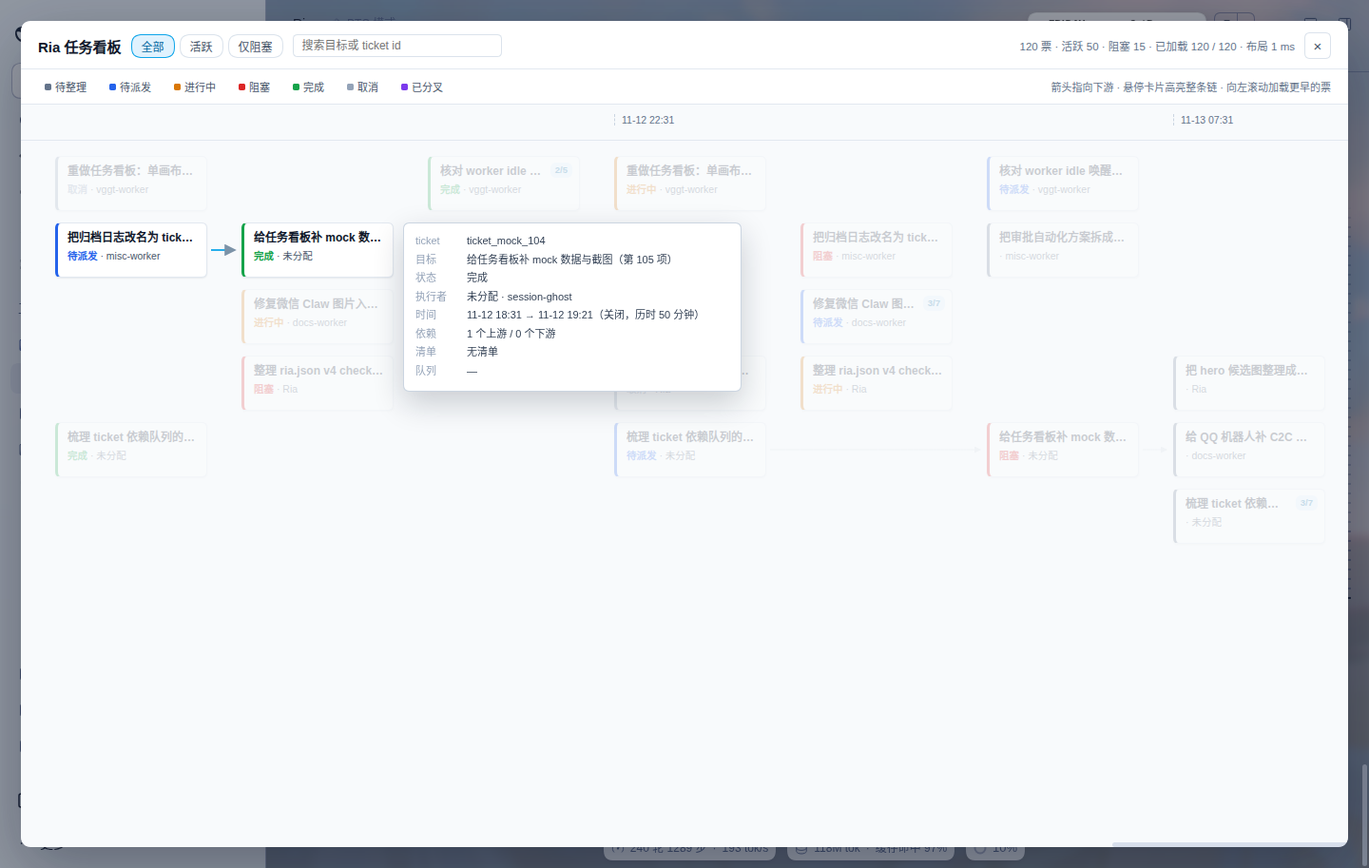
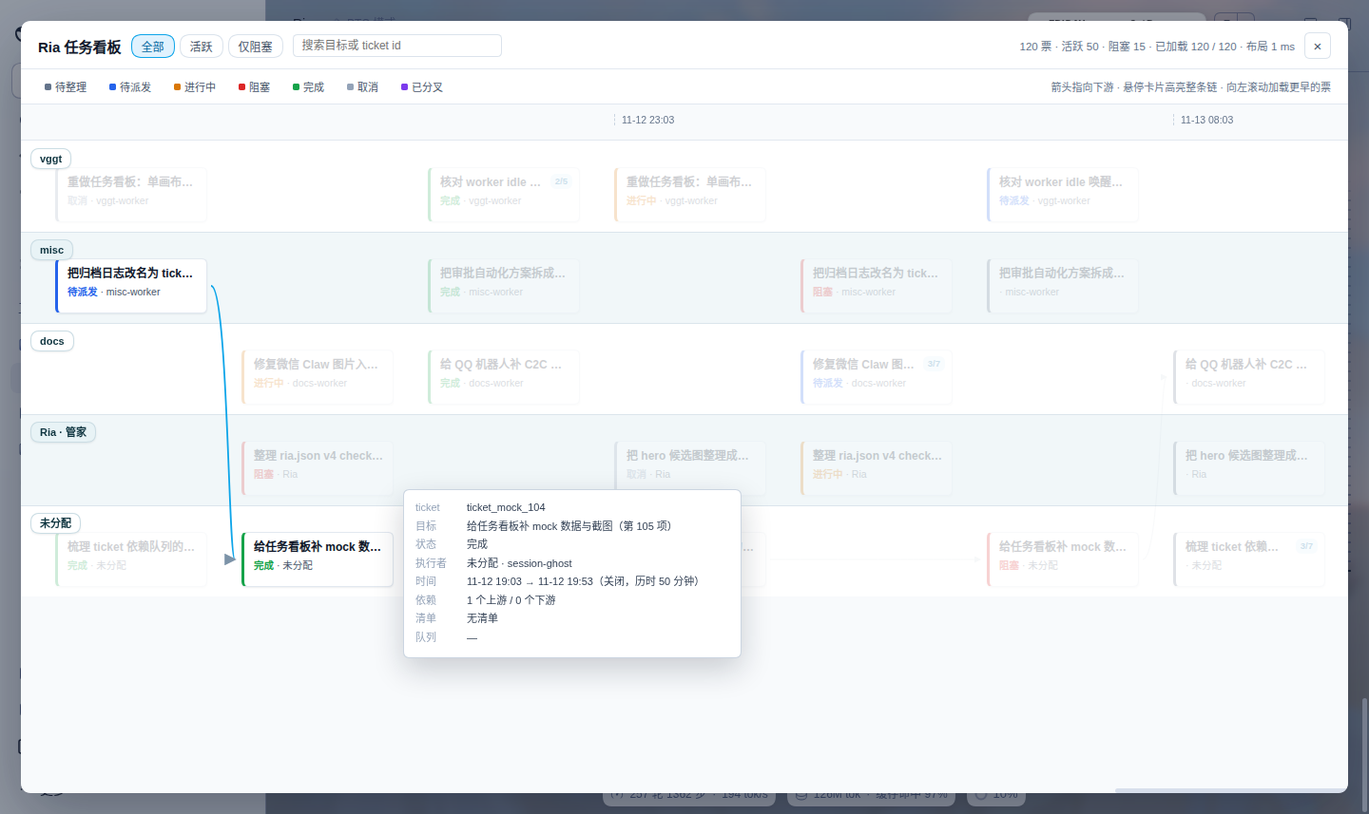
feat: lay out the board in project swimlanes

diff --git a/lib/client.js b/lib/client.js
@@ -1212,8 +1212,9 @@ window.__ModuleLoader__.load({
 
     // Read-only ticket board. The server projects tickets plus session/workspace
     // metadata; this view is a single scrollable canvas: cards are absolutely
-    // positioned by creation order, rows are packed per workspace/executor, and
-    // one SVG layer draws dependencies.
+    // positioned by creation order, and each workspace owns a horizontal band
+    // with its own rows. One SVG layer draws dependencies across bands.
+    /* board-layout:start */
     var BOARD_STATUS = {
       intake: { label: "待整理", color: "#64748b" },
       open: { label: "待派发", color: "#2563eb" },
@@ -1235,6 +1236,12 @@ window.__ModuleLoader__.load({
     var BOARD_STEP_X = BOARD_CARD_WIDTH + BOARD_COLUMN_GAP;
     var BOARD_STEP_Y = BOARD_CARD_HEIGHT + BOARD_ROW_GAP;
     var BOARD_RULER_HEIGHT = 38;
+    var BOARD_LANE_WIDTH = 118;
+    var BOARD_LANE_LABEL_WIDTH = 104;
+    // Each band reserves a header strip for its project label, so the sticky
+    // label never sits on top of a card when the canvas scrolls sideways.
+    var BOARD_BAND_PAD_TOP = 28;
+    var BOARD_BAND_PAD_BOTTOM = 10;
 
     function boardStatus(status) {
       return BOARD_STATUS[status] || { label: String(status || ""), color: "#64748b" };
@@ -1276,31 +1283,70 @@ window.__ModuleLoader__.load({
       return boardDateTime(start) + " → " + boardDateTime(end) + "（" + label + "，历时 " + boardDuration(end - start) + "）";
     }
 
+    function boardPathName(path) {
+      var text = String(path || "").replace(/[\\/]+$/, "");
+      if (!text) return "";
+      var parts = text.split(/[\\/]/);
+      return parts[parts.length - 1] || "";
+    }
+
+    function boardLaneLabel(meta) {
+      if (!meta || meta.id === "unassigned") return "未分配";
+      if (meta.label) return String(meta.label);
+      var cwd = meta.cwd;
+      if (!cwd && /^path:/.test(meta.id)) cwd = meta.id.slice(5);
+      if (cwd) return boardPathName(cwd) || String(cwd);
+      return String(meta.id || "").replace(/^(workspace|path|session):/, "") || "未分配";
+    }
+
     // Lay out the visible tickets without a third-party layout engine:
     // 1. creation order gives every ticket a column (three per column),
     // 2. dependency edges push the downstream ticket at least one column right,
-    // 3. rows are packed by workspace/executor lane, then by free slot.
+    // 3. each workspace/executor lane is its own horizontal band; rows are
+    //    packed inside the band only, so a card never leaves its project.
     function boardLayout(tickets, lanes) {
       var started = performance.now();
       var sorted = tickets.slice().sort(function (left, right) {
         return (left.createdAt || 0) - (right.createdAt || 0) || String(left.ticketId).localeCompare(String(right.ticketId));
       });
-      var laneOrder = [];
-      var laneRank = new Map();
+      var laneMeta = new Map();
+      var seedOrder = [];
       (Array.isArray(lanes) ? lanes : []).forEach(function (lane) {
-        if (lane && lane.id && !laneRank.has(lane.id)) {
-          laneRank.set(lane.id, laneOrder.length);
-          laneOrder.push(lane.id);
-        }
+        if (!lane || !lane.id || laneMeta.has(lane.id)) return;
+        laneMeta.set(lane.id, {
+          id: lane.id,
+          label: lane.label ? String(lane.label) : "",
+          cwd: lane.cwd ? String(lane.cwd) : "",
+          order: seedOrder.length
+        });
+        seedOrder.push(lane.id);
       });
+      var laneOrder = [];
+      var seenLanes = new Set();
       sorted.forEach(function (ticket) {
         var id = ticket.laneId || "unassigned";
-        if (!laneRank.has(id)) {
-          laneRank.set(id, laneOrder.length);
-          laneOrder.push(id);
+        if (seenLanes.has(id)) return;
+        seenLanes.add(id);
+        if (!laneMeta.has(id)) {
+          laneMeta.set(id, {
+            id: id,
+            label: ticket.laneLabel ? String(ticket.laneLabel) : "",
+            cwd: ticket.executorCwd ? String(ticket.executorCwd) : "",
+            order: seedOrder.length + laneOrder.length
+          });
         }
+        laneOrder.push(id);
       });
-      var laneCount = Math.max(1, laneOrder.length);
+      // Keep the API's project order, but always put the unassigned band last.
+      laneOrder.sort(function (left, right) {
+        if (left === "unassigned") return 1;
+        if (right === "unassigned") return -1;
+        return laneMeta.get(left).order - laneMeta.get(right).order;
+      });
+      var bandOf = new Map();
+      sorted.forEach(function (ticket) {
+        bandOf.set(ticket.ticketId, ticket.laneId || "unassigned");
+      });
       var columnOf = new Map();
       sorted.forEach(function (ticket, index) {
         columnOf.set(ticket.ticketId, Math.floor(index / 3));
@@ -1325,61 +1371,89 @@ window.__ModuleLoader__.load({
         columns.get(column).push(ticket);
       });
       var columnKeys = Array.from(columns.keys()).sort(function (left, right) { return left - right; });
-      var baseRow = new Map();
-      sorted.forEach(function (ticket, index) {
-        var preferred = laneRank.has(ticket.laneId) ? laneRank.get(ticket.laneId) : laneCount;
-        baseRow.set(ticket.ticketId, Math.max(0, Math.min(laneCount - 1, preferred)));
-      });
       var positions = new Map();
-      var maxRow = 0;
-      var maxColumn = 0;
-      // Median heuristic: after the first lane-based packing, move cards toward
-      // the median row of their upstream tickets. Two extra passes are enough
-      // to remove most crossings without turning the layout into a solver.
+      var bandRows = new Map();
+      laneOrder.forEach(function (id) { bandRows.set(id, 0); });
+      // A band owns its rows: the occupied set is per band and column, and the
+      // preferred row from the median heuristic can never cross into another.
       function packRows(preferredRows) {
         var next = new Map();
-        var occupied = new Set();
-        maxRow = 0;
+        var rows = new Map();
+        laneOrder.forEach(function (id) { rows.set(id, 0); });
         columnKeys.forEach(function (column) {
           var items = columns.get(column).slice().sort(function (left, right) {
-            var leftRank = laneRank.has(left.laneId) ? laneRank.get(left.laneId) : laneCount;
-            var rightRank = laneRank.has(right.laneId) ? laneRank.get(right.laneId) : laneCount;
-            return leftRank - rightRank || (left.createdAt || 0) - (right.createdAt || 0);
+            return (left.createdAt || 0) - (right.createdAt || 0);
           });
-          items.forEach(function (ticket) {
-            var preferred = preferredRows.get(ticket.ticketId);
-            var row = Math.max(0, Math.min(laneCount - 1, Number.isFinite(preferred) ? preferred : 0));
-            while (occupied.has(column + ":" + row)) row += 1;
-            occupied.add(column + ":" + row);
-            next.set(ticket.ticketId, {
-              x: BOARD_PAD_X + column * BOARD_STEP_X,
-              y: BOARD_PAD_TOP + row * BOARD_STEP_Y,
-              column: column,
-              row: row
+          laneOrder.forEach(function (laneId) {
+            var occupied = new Set();
+            items.forEach(function (ticket) {
+              if (bandOf.get(ticket.ticketId) !== laneId) return;
+              var preferred = preferredRows.get(ticket.ticketId);
+              var row = Number.isFinite(preferred) ? Math.max(0, Math.floor(preferred)) : 0;
+              while (occupied.has(row)) row += 1;
+              occupied.add(row);
+              next.set(ticket.ticketId, {
+                x: BOARD_PAD_X + BOARD_LANE_WIDTH + column * BOARD_STEP_X,
+                y: 0,
+                column: column,
+                row: row,
+                band: laneId
+              });
+              if (row + 1 > rows.get(laneId)) rows.set(laneId, row + 1);
             });
-            if (row > maxRow) maxRow = row;
-            if (column > maxColumn) maxColumn = column;
           });
         });
+        bandRows = rows;
         return next;
       }
-      var preferredRows = new Map(baseRow);
+      var preferredRows = new Map();
+      // Three passes: pack, then move cards toward the median row of upstream
+      // tickets in the same band. Cross-band dependencies do not move a card.
       for (var round = 0; round < 3; round += 1) {
         positions = packRows(preferredRows);
         if (round === 2) break;
-        var nextPreferred = new Map(baseRow);
+        var nextPreferred = new Map();
         sorted.forEach(function (ticket) {
+          var band = bandOf.get(ticket.ticketId);
           var upstreamRows = (ticket.dependsOn || [])
             .map(function (dependency) { return positions.get(dependency); })
-            .filter(Boolean)
+            .filter(function (position) { return position && position.band === band; })
             .map(function (position) { return position.row; })
             .sort(function (left, right) { return left - right; });
-          if (!upstreamRows.length) return;
+          if (!upstreamRows.length) {
+            nextPreferred.set(ticket.ticketId, 0);
+            return;
+          }
           var middle = upstreamRows[Math.floor(upstreamRows.length / 2)];
-          nextPreferred.set(ticket.ticketId, Math.max(0, Math.min(laneCount - 1, middle)));
+          nextPreferred.set(ticket.ticketId, Math.max(0, Math.min(Math.max(0, (bandRows.get(band) || 1) - 1), middle)));
         });
         preferredRows = nextPreferred;
       }
+      var bands = [];
+      var bandTop = 0;
+      laneOrder.forEach(function (id, index) {
+        var rows = Math.max(1, bandRows.get(id) || 0);
+        var height = BOARD_BAND_PAD_TOP + rows * BOARD_STEP_Y - BOARD_ROW_GAP + BOARD_BAND_PAD_BOTTOM;
+        bands.push({
+          id: id,
+          label: boardLaneLabel(laneMeta.get(id)),
+          y: bandTop,
+          height: height,
+          rows: rows,
+          index: index
+        });
+        bandTop += height;
+      });
+      var bandById = new Map(bands.map(function (band) { return [band.id, band]; }));
+      positions.forEach(function (position) {
+        var band = bandById.get(position.band);
+        position.bandIndex = band.index;
+        position.y = band.y + BOARD_BAND_PAD_TOP + position.row * BOARD_STEP_Y;
+      });
+      var maxColumn = 0;
+      positions.forEach(function (position) {
+        if (position.column > maxColumn) maxColumn = position.column;
+      });
       var edges = [];
       sorted.forEach(function (ticket) {
         var target = positions.get(ticket.ticketId);
@@ -1408,23 +1482,26 @@ window.__ModuleLoader__.load({
         ticks.push({
           key: "tick-" + column,
           column: column,
-          x: BOARD_PAD_X + column * BOARD_STEP_X,
+          x: BOARD_PAD_X + BOARD_LANE_WIDTH + column * BOARD_STEP_X,
           label: boardDateTime(first.createdAt)
         });
       });
-      var width = Math.max(720, BOARD_PAD_X * 2 + (maxColumn + 1) * BOARD_STEP_X - BOARD_COLUMN_GAP);
-      var height = BOARD_PAD_TOP + (maxRow + 1) * BOARD_STEP_Y + BOARD_PAD_BOTTOM;
+      var width = Math.max(720, BOARD_PAD_X * 2 + BOARD_LANE_WIDTH + (maxColumn + 1) * BOARD_STEP_X - BOARD_COLUMN_GAP);
+      var maxRows = 0;
+      bands.forEach(function (band) { if (band.rows > maxRows) maxRows = band.rows; });
       return {
         positions: positions,
         edges: edges,
         ticks: ticks,
+        bands: bands,
         columns: columnKeys.length,
-        rows: maxRow + 1,
+        rows: maxRows,
         width: width,
-        height: height,
+        height: bandTop,
         ms: performance.now() - started
       };
     }
+    /* board-layout:end */
 
     function BoardCard(props) {
       var ticket = props.ticket;
@@ -1934,6 +2011,26 @@ window.__ModuleLoader__.load({
                 "div",
                 { style: { position: "relative", width: view.layout.width + "px", height: view.layout.height + "px" } },
                 React.createElement(
+                  "div",
+                  { "aria-hidden": "true", style: { position: "absolute", inset: 0, zIndex: 0, pointerEvents: "none" } },
+                  view.layout.bands.map(function (band) {
+                    return React.createElement("div", {
+                      key: "band-" + band.id,
+                      "data-ria-band": band.id,
+                      style: {
+                        position: "absolute",
+                        left: 0,
+                        top: band.y + "px",
+                        width: view.layout.width + "px",
+                        height: band.height + "px",
+                        boxSizing: "border-box",
+                        background: band.index % 2 === 0 ? "#ffffff" : "#f1f7f9",
+                        borderTop: band.index === 0 ? "none" : "1px solid #dbe5ec"
+                      }
+                    });
+                  })
+                ),
+                React.createElement(
                   "svg",
                   {
                     "aria-hidden": "true",
@@ -1971,7 +2068,50 @@ window.__ModuleLoader__.load({
                     onEnter: showTip,
                     onLeave: hideTip
                   });
-                })
+                }),
+                React.createElement(
+                  "div",
+                  { style: { position: "absolute", inset: 0, zIndex: 4, pointerEvents: "none", width: view.layout.width + "px", height: view.layout.height + "px" } },
+                  view.layout.bands.map(function (band) {
+                    return React.createElement(
+                      "div",
+                      {
+                        key: "band-label-" + band.id,
+                        style: { position: "absolute", left: 0, top: band.y + "px", width: view.layout.width + "px", height: band.height + "px" }
+                      },
+                      React.createElement(
+                        "div",
+                        {
+                          "data-ria-band-label": band.id,
+                          title: band.label,
+                          style: {
+                            position: "sticky",
+                            left: "10px",
+                            display: "inline-flex",
+                            alignItems: "center",
+                            marginTop: "8px",
+                            marginLeft: "10px",
+                            maxWidth: BOARD_LANE_LABEL_WIDTH + "px",
+                            padding: "3px 9px",
+                            borderRadius: "999px",
+                            border: "1px solid #cbdde4",
+                            background: band.index % 2 === 0 ? "#ffffff" : "#e8f3f6",
+                            color: "#0f3540",
+                            fontSize: "11px",
+                            fontWeight: "700",
+                            lineHeight: "1.3",
+                            whiteSpace: "nowrap",
+                            overflow: "hidden",
+                            textOverflow: "ellipsis",
+                            boxSizing: "border-box",
+                            boxShadow: "0 1px 2px rgba(15, 23, 42, 0.08)"
+                          }
+                        },
+                        band.label
+                      )
+                    );
+                  })
+                )
               ),
               hasMore ? React.createElement(
                 "div",

diff --git a/docs/testing.md b/docs/testing.md
@@ -6,7 +6,7 @@
 npm test
 ~~~
 
-smoke 使用 mock ctx 覆盖 ensure、Workspace 挂载、12 个工具、request、ticket 派发都不加前缀、dispatch guard section 安装到 worker 和 Ria、GET/POST /settings 与 GET /state 的 settings、status、read、memory、持久化、grant 的 set/list/reset 与 ticket 关闭恢复，以及新建 Ria 不写任何 session 事件和第二次 ensure 不重复；近期 worker 覆盖空列表、ticket 派发后候选的 title/cwd/lastUsedAt/lastTicketGoal/lastTicketStatus、失败请求不更新、scope=sessions 字段、ria.json 持久化和 lossless；dispatch-guard 测试覆盖 installAll、agent/created 与 disposed、重复安装、开关关闭时 text 为空、注册失败只 warn 和 shutdown；wechat 测试覆盖 assistant 文本提取、入口事件过滤、微信入站去重/回显过滤、失败标记、reconnect skip、状态视图，以及图片开关默认开启与显式关闭；wechat-image 测试覆盖图片上传/发送字段与去重、成功发送、暂停、本机相对路径图片提取、缺失/非图片回退、围栏代码跳过和 outbound 关闭；wechat-image-inbound 测试覆盖 webwxgetmsgimg 失败回落 webwxgetmedia、Cookie 与 query、Content-Length/流式超限、无 Cookie 错误传播、落盘命名与重名、纯图片占位、下载失败/空/超限/未知类型降级、30 天与 500 个清理、宿主附件校验失败与投递失败回退纯文本、InboundBridge 投递 text+image；channels 测试覆盖账号 id 归一、二维码 data URL、通道 request id 前缀与互斥、QQ AES-256-GCM 绑定密钥解密与篡改拒绝、客户端通道目录顺序、最近通道存储键与回退、弹窗点击事件隔离，以及微信 Claw 和 QQ 的完整扫码流程（本地假服务、二维码轮询、凭据落盘、暂停恢复）；wechat-claw-image 测试覆盖图片开关归一、AES 解密入站、落盘权限与路径、非图片 item 拒绝、下载失败/超限/文件头错误、inbound 关闭、getuploadurl 字段与 CDN 密文、sendmessage image_item、上传失败回退可见文本、围栏代码跳过、outbound 关闭和暂停不发；wechat-claw-typing 测试覆盖 typing ticket 缓存与 ret!=0 重取、start→refresh→cancel 顺序、取消先于出站发送、暂停取消、typing 异常静默仍可收发和开关关闭零请求；qq-bot-typing 测试覆盖 C2C 触发与字段（msg_type/input_notify/msg_seq/msg_id）、群聊与频道不触发、续期次数与回复后停止、异常静默、暂停清理、只有出站不触发和开关关闭零请求；wechat-file 测试覆盖阈值/代码块/表格/标题/链接判定、配置/env 覆盖、文件名、短消息不变、长消息发 .md、失败回退文本，以及上传 multipart 和 appmsg 的字段/签名/去重；approvals 测试覆盖只记录活跃 executor、始终 next()、abort/超时/shutdown 清理和 lossless 输出；grants 测试覆盖过期、startup、ticket 缺失/关闭、漂移跳过、恢复失败和审计；startup 测试覆盖达到恢复上限后的通知与 blocked 状态、更新/成功派发清零、以及启动异常通知；worker-idle 测试覆盖正常触发、排除 Ria、非 working ticket/running 状态不触发、按 ticket 节流、开关关闭，以及提示文本要求 read/不假设完成/等用户输入时标 blocked；wechat-pause 测试覆盖手动开关与持久化、非微信消息自动暂停、微信入站自动恢复、host_/schedule 合成消息不触发、manual 优先级、暂停时不出站且丢日志、排队丢弃而在途完成、重启保持，以及恢复后补发 outbox；smoke 还验证 pause/unpause 往返后 pausedAt、resumedAt、pausedBy 和重复读取 status 的字段一致；以及 dispatch-notes 按 session/turn 过滤、错误 session 返回空列表、note 持久化、无 note 的请求不记录、snapshot 读取失败仍派发并记录 note；wechat 和 smoke 还覆盖派发 note 的微信镜像：ticket 格式、未登录/暂停/发送异常都不影响派发与 concludeTurn，失败条目留在 outbox 并可按退避补投；spawn 测试覆盖新建顶层 worker 的参数、title、失败码与 ria_status 可见性；model 测试覆盖 ria_spawn 带 model、创建前拒绝未知模型、创建后 selectModel 失败的回执、ria_model 改模型与 previous、未知/歧义模型、归档/subagent/不存在会话、改 Ria 自己，以及 sessions/recent 的模型字段；title 测试覆盖成功改名与 previous、session_missing、subagent 的 not_top_level、归档、宿主 title_invalid 原 message 透传，以及改 Ria 自己；attachments 测试覆盖图片 content 投递、attachment_missing/attachment_invalid/model_no_image、多目标部分成功，以及失败不投递、不写 recentWorkers、不动 ticket；checklist 测试覆盖 v3 文件加载与 .v3.bak 备份、创建/追加/显式清勾/replaceAll 保留勾选/drop、check 成功与越界/非布尔/终态/混用拒绝、ria_status 与看板 progress、归档摘要最多 5 条未勾项；attention 测试覆盖结构化问题的设置/读取/清空、旧 blockedReason 票和 ria_status 输出；board 测试覆盖 /board 的 counts/lanes/tickets 投影、executor=self 归 Ria、缺失 worker 与归档标记、workspaceRegistry 读取失败仍返回，以及注册路由的 JSON 响应；outbox 测试覆盖幂等入队、重载、退避与 6 次上限、delivered 清理、坏文件恢复、无活跃 turn 排队、turn 开始后补投、失败原因可见和 startup 补投；queue 测试覆盖 queued/steering/context 三种 placement、itemId/rpcId 撤回、item 不存在、rpcId 解析失败、session_missing/not_top_level/session_archived、冷会话 queue=null、updateQueue 错误映射；ticket-queue 测试覆盖依赖票停在 open/dependency 不可派、ready 只唤醒一次、queueToken 缺失/过期、worker_busy 拒绝 queue 但 steer 放行、依赖输入校验（自指/重复/缺失/环/上限）整次不写入、failed/cancelled 告警而 blocked 不告警、级联取消把 working 下游记为 deferred、merge 转移依赖边、ria_status 的 queue 输出与 ria_resolve 带 dependsOn；ticket-queue-restart 测试覆盖 v2→v3 迁移与备份、startup 重算依赖、恢复单位排除排队票、排队摘要合并、未派发 ready 票补发 boot wake；archive 测试覆盖新名写入、旧名读取、旧名启动迁移幂等、同 ticketId+closedAt 去重、reopen 与月日志保留。
+smoke 使用 mock ctx 覆盖 ensure、Workspace 挂载、12 个工具、request、ticket 派发都不加前缀、dispatch guard section 安装到 worker 和 Ria、GET/POST /settings 与 GET /state 的 settings、status、read、memory、持久化、grant 的 set/list/reset 与 ticket 关闭恢复，以及新建 Ria 不写任何 session 事件和第二次 ensure 不重复；近期 worker 覆盖空列表、ticket 派发后候选的 title/cwd/lastUsedAt/lastTicketGoal/lastTicketStatus、失败请求不更新、scope=sessions 字段、ria.json 持久化和 lossless；dispatch-guard 测试覆盖 installAll、agent/created 与 disposed、重复安装、开关关闭时 text 为空、注册失败只 warn 和 shutdown；wechat 测试覆盖 assistant 文本提取、入口事件过滤、微信入站去重/回显过滤、失败标记、reconnect skip、状态视图，以及图片开关默认开启与显式关闭；wechat-image 测试覆盖图片上传/发送字段与去重、成功发送、暂停、本机相对路径图片提取、缺失/非图片回退、围栏代码跳过和 outbound 关闭；wechat-image-inbound 测试覆盖 webwxgetmsgimg 失败回落 webwxgetmedia、Cookie 与 query、Content-Length/流式超限、无 Cookie 错误传播、落盘命名与重名、纯图片占位、下载失败/空/超限/未知类型降级、30 天与 500 个清理、宿主附件校验失败与投递失败回退纯文本、InboundBridge 投递 text+image；channels 测试覆盖账号 id 归一、二维码 data URL、通道 request id 前缀与互斥、QQ AES-256-GCM 绑定密钥解密与篡改拒绝、客户端通道目录顺序、最近通道存储键与回退、弹窗点击事件隔离，以及微信 Claw 和 QQ 的完整扫码流程（本地假服务、二维码轮询、凭据落盘、暂停恢复）；wechat-claw-image 测试覆盖图片开关归一、AES 解密入站、落盘权限与路径、非图片 item 拒绝、下载失败/超限/文件头错误、inbound 关闭、getuploadurl 字段与 CDN 密文、sendmessage image_item、上传失败回退可见文本、围栏代码跳过、outbound 关闭和暂停不发；wechat-claw-typing 测试覆盖 typing ticket 缓存与 ret!=0 重取、start→refresh→cancel 顺序、取消先于出站发送、暂停取消、typing 异常静默仍可收发和开关关闭零请求；qq-bot-typing 测试覆盖 C2C 触发与字段（msg_type/input_notify/msg_seq/msg_id）、群聊与频道不触发、续期次数与回复后停止、异常静默、暂停清理、只有出站不触发和开关关闭零请求；wechat-file 测试覆盖阈值/代码块/表格/标题/链接判定、配置/env 覆盖、文件名、短消息不变、长消息发 .md、失败回退文本，以及上传 multipart 和 appmsg 的字段/签名/去重；approvals 测试覆盖只记录活跃 executor、始终 next()、abort/超时/shutdown 清理和 lossless 输出；grants 测试覆盖过期、startup、ticket 缺失/关闭、漂移跳过、恢复失败和审计；startup 测试覆盖达到恢复上限后的通知与 blocked 状态、更新/成功派发清零、以及启动异常通知；worker-idle 测试覆盖正常触发、排除 Ria、非 working ticket/running 状态不触发、按 ticket 节流、开关关闭，以及提示文本要求 read/不假设完成/等用户输入时标 blocked；wechat-pause 测试覆盖手动开关与持久化、非微信消息自动暂停、微信入站自动恢复、host_/schedule 合成消息不触发、manual 优先级、暂停时不出站且丢日志、排队丢弃而在途完成、重启保持，以及恢复后补发 outbox；smoke 还验证 pause/unpause 往返后 pausedAt、resumedAt、pausedBy 和重复读取 status 的字段一致；以及 dispatch-notes 按 session/turn 过滤、错误 session 返回空列表、note 持久化、无 note 的请求不记录、snapshot 读取失败仍派发并记录 note；wechat 和 smoke 还覆盖派发 note 的微信镜像：ticket 格式、未登录/暂停/发送异常都不影响派发与 concludeTurn，失败条目留在 outbox 并可按退避补投；spawn 测试覆盖新建顶层 worker 的参数、title、失败码与 ria_status 可见性；model 测试覆盖 ria_spawn 带 model、创建前拒绝未知模型、创建后 selectModel 失败的回执、ria_model 改模型与 previous、未知/歧义模型、归档/subagent/不存在会话、改 Ria 自己，以及 sessions/recent 的模型字段；title 测试覆盖成功改名与 previous、session_missing、subagent 的 not_top_level、归档、宿主 title_invalid 原 message 透传，以及改 Ria 自己；attachments 测试覆盖图片 content 投递、attachment_missing/attachment_invalid/model_no_image、多目标部分成功，以及失败不投递、不写 recentWorkers、不动 ticket；checklist 测试覆盖 v3 文件加载与 .v3.bak 备份、创建/追加/显式清勾/replaceAll 保留勾选/drop、check 成功与越界/非布尔/终态/混用拒绝、ria_status 与看板 progress、归档摘要最多 5 条未勾项；attention 测试覆盖结构化问题的设置/读取/清空、旧 blockedReason 票和 ria_status 输出；board 测试覆盖 /board 的 counts/lanes/tickets 投影、executor=self 归 Ria、缺失 worker 与归档标记、workspaceRegistry 读取失败仍返回、注册路由的 JSON 响应，以及泳道布局（同 lane 同带、带内行不重叠、未分配最后、带高随行数、跨带依赖只移列不跨带、cwd 末段回退、标签 sticky 源码）；outbox 测试覆盖幂等入队、重载、退避与 6 次上限、delivered 清理、坏文件恢复、无活跃 turn 排队、turn 开始后补投、失败原因可见和 startup 补投；queue 测试覆盖 queued/steering/context 三种 placement、itemId/rpcId 撤回、item 不存在、rpcId 解析失败、session_missing/not_top_level/session_archived、冷会话 queue=null、updateQueue 错误映射；ticket-queue 测试覆盖依赖票停在 open/dependency 不可派、ready 只唤醒一次、queueToken 缺失/过期、worker_busy 拒绝 queue 但 steer 放行、依赖输入校验（自指/重复/缺失/环/上限）整次不写入、failed/cancelled 告警而 blocked 不告警、级联取消把 working 下游记为 deferred、merge 转移依赖边、ria_status 的 queue 输出与 ria_resolve 带 dependsOn；ticket-queue-restart 测试覆盖 v2→v3 迁移与备份、startup 重算依赖、恢复单位排除排队票、排队摘要合并、未派发 ready 票补发 boot wake；archive 测试覆盖新名写入、旧名读取、旧名启动迁移幂等、同 ticketId+closedAt 去重、reopen 与月日志保留。
 
 ## 本地开发与隔离验证
 

diff --git a/DESIGN.md b/DESIGN.md
@@ -562,7 +562,7 @@ ria.json 和 memory.md 都不存 transcript。
 - sidebar.panellist 注册 Ria，order 100，label "Ria"。
 - 点击后瞬时 launcher -> ensure -> openSession。
 - DSH 的正常会话界面要求 Session 属于一个 Workspace。ensure 在 stateDir 创建/复用标题为 Ria 的专用 Workspace，并用 workspaceId 创建 Session；旧 Ria 通过 attachSession 补挂。工作区列表会多这一项，这是输入框可用的必要条件。
-- 不做常驻看板；任务看板是侧栏入口打开的全屏只读 overlay，单画布按创建顺序每 3 票一列、依赖右移、按 workspace 分道，默认最新 60 票，向左滚动分页加载更早的票。
+- 不做常驻看板；任务看板是侧栏入口打开的全屏只读 overlay，单画布按创建顺序每 3 票一列、依赖右移；纵轴按 workspace 分成水平项目带，带高随行数自适应，带内独立换行与行对齐，卡片不跨带，项目标签在带顶左侧 sticky，跨带只画箭头。默认最新 60 票，向左滚动分页加载更早的票。
 - 新建 Ria 第一次打开（会话还没有任何 turn）时，输入框上方显示一张欢迎卡片：提示选模型、设置权限（建议 danger-full-access + 审批策略）、直接说目标。
 - 欢迎卡片是 client 侧渲染：注册在 `conversation.input.dock`（id=ria-welcome，order 5），只在当前会话等于 Ria 且 `blank` 时显示，发出第一条消息后自动消失；不写 session 日志、不占 turn、不调用模型、不进入模型上下文。
 - 早期实现是 Host 侧由 Session.append 写一个合成的完整 turn（turn 1/step 1）。该 turn 的 assistant/message 会成为 surface 的首个节点，排在真实 turn 的 system/message 之前，DSH session-format v4 校验要求 system/message 是 protected first surface head，因此重启 resume 报 corrupt（`system/message requires a protected first surface head`），已移除。
@@ -637,7 +637,7 @@ Phase 27：ticket 排队与依赖 P0。schema v3（dependsOn/readyAt/readyNotifi
 
 Phase 29：ticket checklist。schema v3→v4，旧文件原样读入、无 checklist 视为空，首次写前备份 `ria.json.v3.bak`；`ria_ticket` 支持 checklist 追加/保留勾选、`replaceAll` 整表重建、`drop` 删旧索引与 `check:{index,done}` 单项切换（错误码 checklist_invalid / checklist_index，终态拒绝 check）。`ticketSummary`、`ria_status` 与看板卡片带 progress（已完成/总数），归档摘要记录 total/done 与最多 5 条未勾项；manager prompt 要求多步任务先建清单、完成一步勾一项、`[Worker idle]` 先读清单再决定续派。
 
-Phase 30：任务看板重做与归档日志改名。看板改为单画布：按 createdAt 排序、每 3 票一列、依赖列右移、列内按泳道与上游行中位数排布；卡片 160×58 只显示 goal 摘要、状态·执行者与清单进度，悬停高亮整条上下游链并显示完整信息浮层（含依赖数、清单、排队原因、时间）。`GET /board` 增加 limit（默认 60，1–200）/before 分页与 page 元数据、dependentCount、archived，合并热存与归档日志；客户端默认加载最新一页并停在最右，向左滚动按 before 加载更早。归档日志新写入 `tickets.log.jsonl` / `tickets-YYYY-MM.jsonl`，启动时幂等迁移旧 `tasks.*`，读取端兼容并去重。
+Phase 30：任务看板重做与归档日志改名。看板改为单画布：按 createdAt 排序、每 3 票一列、依赖列右移；纵轴按 workspace 分成水平项目带，带顶留标签条并在横向滚动时 sticky，带高按实际行数自适应，带内独立换行、上游行中位数只在同带内生效，卡片不跨带，跨带依赖只画箭头；卡片 160×58 只显示 goal 摘要、状态·执行者与清单进度，悬停高亮整条上下游链并显示完整信息浮层（含依赖数、清单、排队原因、时间）。`GET /board` 增加 limit（默认 60，1–200）/before 分页与 page 元数据、dependentCount、archived，合并热存与归档日志；客户端默认加载最新一页并停在最右，向左滚动按 before 加载更早。归档日志新写入 `tickets.log.jsonl` / `tickets-YYYY-MM.jsonl`，启动时幂等迁移旧 `tasks.*`，读取端兼容并去重。
 
 Phase 28：会话改名工具。新增 `ria_title({ sessionId, title })`，走宿主 `sessionController.rename`，只改会话名，不发消息、不建 ticket、不唤醒 worker；预检复用 `sessionProblem`（存在、顶层、未归档、cwd 可用），允许改 Ria 自己，subagent 一律拒绝；空标题或宿主 `session/title-invalid` 映射为 `title_invalid` 并保留宿主原始 message；成功返回 accepted title 与已知 previous。`ria_spawn` 的 title 设置复用同一 helper，返回值语义不变（失败仍只写 `titleError`）。
 

diff --git a/docs/board-preview.md b/docs/board-preview.md
@@ -2,14 +2,16 @@
 
 ![Ria 任务看板](assets/ria-board-preview.png)
 
-看板是只读的全屏浮层，不写 ticket、不派发消息。截图 1440×913，使用 mock 的 120 张 ticket 驱动真实 DSH Web shell 与工作区里的 `lib/client.js`，覆盖 5 条工作区泳道、依赖链、清单进度和各种状态；不是本机 ria.json 的实时投影。
+看板是只读的全屏浮层，不写 ticket、不派发消息。截图 1440×857，使用 mock 的 120 张 ticket 驱动真实 DSH Web shell 与工作区里的 `lib/client.js`，覆盖 5 条项目带（vggt / misc / docs / Ria · 管家 / 未分配）、跨带依赖链、清单进度和各种状态；不是本机 ria.json 的实时投影。
 
 ## 布局
 
-- 单画布：横轴按 `createdAt` 排序，每 3 张卡一列；有依赖的列整体右移，列内按泳道排序，再按上游行中位数做 3 轮对齐。
-- 纵轴按 worker 所属 workspace 分道；`self` 与 Ria 归入「Ria · 管家」，找不到会话的 worker 进「未分配」。泳道按活跃票数、最近活动排序。
+- 单画布：横轴按 `createdAt` 排序，每 3 张卡一列；有依赖的列整体右移。
+- 纵轴按 worker 所属 workspace 分成水平项目带；`self` 与 Ria 归入「Ria · 管家」，找不到会话的 worker 进「未分配」，未分配永远在最后。带底色交替，带之间用 1px 分隔线。
+- 每条带顶部留出标签条：项目名在带内左上角，横向滚动时用 `position: sticky` 固定在左侧；名称取 workspace 标题，没有标题时取 cwd 末段。标签条与卡片分层，标签不会压在卡片上。
+- 带高按该带实际行数自适应，卡片只在所属带内换行，上游行中位数对齐也只在同带内生效，卡片不会跨带；跨带依赖只画箭头、不搬卡片。
 - 卡片 160×58：第一行是去掉空白与首句、最多 22 字的 goal 摘要，第二行是「状态 · 执行者」，右上角是清单进度（如 3/7），不再显示 ticket 短 id。
-- 依赖用 cubic SVG 箭头从上游指向下游；悬停卡片时整条上下游链高亮，其余卡片与边淡出，并弹出完整信息浮层（goal、状态/waitingOn、执行者与 sessionId、创建/关闭时间与历时、依赖/被依赖数、清单进度、排队原因）。
+- 依赖用 cubic SVG 箭头从上游指向下游，允许跨带；悬停卡片时整条上下游链高亮，其余卡片与边淡出，并弹出完整信息浮层（goal、状态/waitingOn、执行者与 sessionId、创建/关闭时间与历时、依赖/被依赖数、清单进度、排队原因）。
 - 顶部有搜索框和全部/活跃/仅阻塞筛选；图例可高亮状态。默认加载最新 60 张并停在最右；向左滚到距左缘 180px 时自动按 `before` 加载更早的 60 张，加载后保持视口位置。
 
 ## 数据与复现
@@ -37,4 +39,4 @@ dsh-daemon restart
 - 无依赖的票不画箭头；有依赖时只高亮整条相关链。
 - 热存与归档日志合并；归档票带 `archived:true`，不会因为不在热存里而从看板消失。
 - 分页去重、加载更早失败提示、没有更早数据时停止请求。
-- 120 张 mock 票实测：画布宽 7852px，默认 `scrollLeft` 等于最大滚动值，布局约 1ms；仅阻塞筛选 15 张，搜索无结果显示空状态。
+- 120 张 mock 票实测：画布宽 7970px，面板 1396×813，默认 `scrollLeft` 6574 等于最大滚动值，布局约 1ms；横向滚动 240px 后项目标签仍停在屏幕 x=32，验证 sticky 生效；仅阻塞筛选 15 张，搜索无结果显示空状态。
